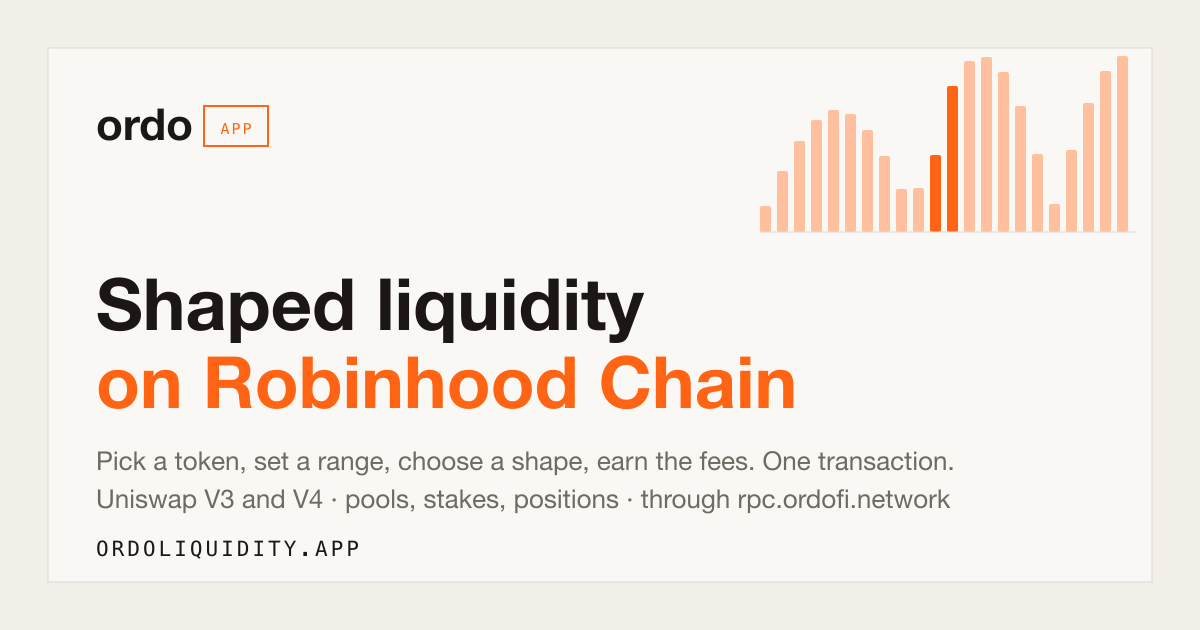
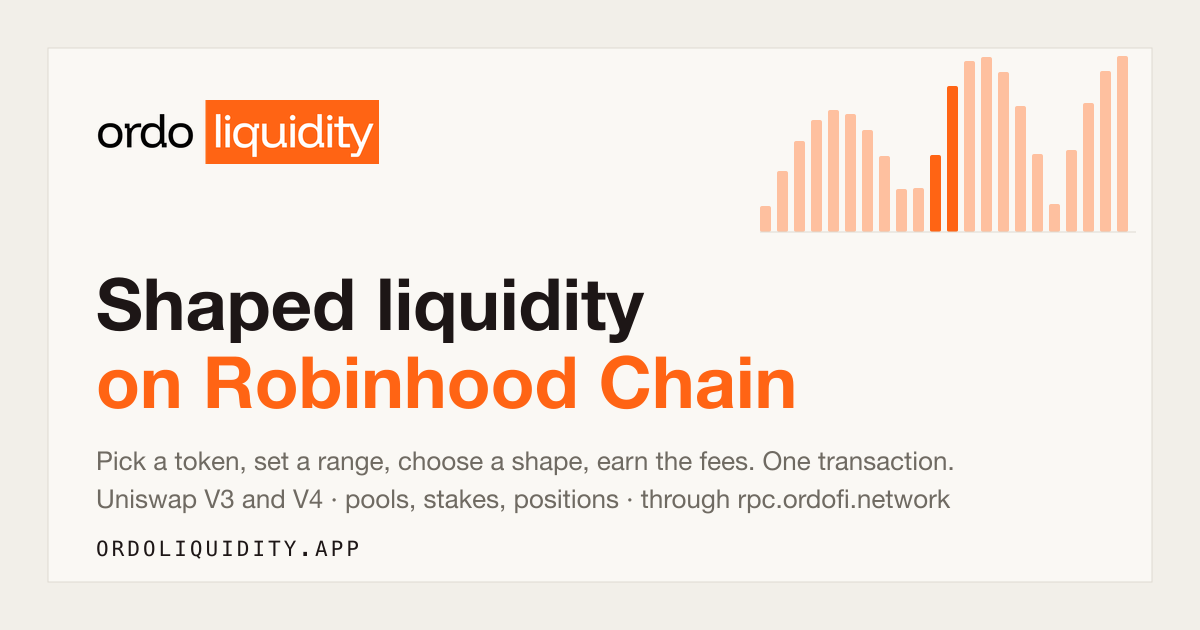
The ordo liquidity mark in the nav and footer of the pools, stakes and positions pages, and on the share card.

Changed region(s): [[0.0617, 0.1508, 0.3392, 0.2714]]

diff --git a/apps/web/public/pools.html b/apps/web/public/pools.html
@@ -231,7 +231,7 @@
 <body>
   <nav>
     <div class="wrap">
-      <a class="logo" href="/">ordo<span class="logo-app">app</span></a>
+      <a class="logo logo-liq" href="/pools" aria-label="ordo liquidity"><img src="/ordo-liquidity.png" alt="ordo liquidity" width="680" height="154" /></a>
       <div class="nav-links"><a href="/">Home</a><a href="/trade">Trade</a><a href="/pools" class="here">Pools</a><a href="/stakes">Stakes</a><a href="/positions">Positions</a><a href="/stealth">Stealth</a><a href="/desk">Desk</a><a href="/docs">Docs</a></div>
       <div class="nav-side"><a class="btn ghost" id="nav-connect" href="#" style="padding:7px 16px;font-size:13px">Connect</a></div>
     </div>
@@ -850,7 +850,7 @@
   <footer class="site-footer">
     <div class="wrap">
       <div class="footer-grid">
-        <div class="footer-brand"><div class="logo">ordo<span class="logo-app">app</span></div><p>The execution layer for Robinhood Chain.</p></div>
+        <div class="footer-brand"><div class="logo logo-liq"><img src="/ordo-liquidity.png" alt="ordo liquidity" width="680" height="154" /></div><p>The execution layer for Robinhood Chain.</p></div>
         <div class="footer-col"><h5>Product</h5><a href="/trade">Trade</a><a href="/pools">Pools</a><a href="/positions">Positions</a><a href="/stealth">Stealth</a><a href="/desk">Desk</a><a href="/explorer">Explorer</a><a href="/docs">Documentation</a></div>
         <div class="footer-col"><h5>Participate</h5><a href="/searchers">For searchers</a><a href="/apps">For apps &amp; wallets</a><a href="/operators">For node operators</a></div>
         <div class="footer-col"><h5>Resources</h5><a href="https://github.com/OrdoFi/ordofi" target="_blank" rel="noopener">GitHub</a><a href="/docs#quickstart">Quickstart</a></div>

diff --git a/apps/web/public/positions.html b/apps/web/public/positions.html
@@ -71,7 +71,7 @@
 <body>
   <nav>
     <div class="wrap">
-      <a class="logo" href="/">ordo<span class="logo-app">app</span></a>
+      <a class="logo logo-liq" href="/pools" aria-label="ordo liquidity"><img src="/ordo-liquidity.png" alt="ordo liquidity" width="680" height="154" /></a>
       <div class="nav-links"><a href="/">Home</a><a href="/trade">Trade</a><a href="/pools">Pools</a><a href="/stakes">Stakes</a><a href="/positions" class="here">Positions</a><a href="/stealth">Stealth</a><a href="/desk">Desk</a><a href="/docs">Docs</a></div>
       <div class="nav-side"><a class="btn ghost" id="nav-connect" href="#" style="padding:7px 16px;font-size:13px">Connect</a></div>
     </div>
@@ -193,7 +193,7 @@
   <footer class="site-footer">
     <div class="wrap">
       <div class="footer-grid">
-        <div class="footer-brand"><div class="logo">ordo<span class="logo-app">app</span></div><p>The execution layer for Robinhood Chain.</p></div>
+        <div class="footer-brand"><div class="logo logo-liq"><img src="/ordo-liquidity.png" alt="ordo liquidity" width="680" height="154" /></div><p>The execution layer for Robinhood Chain.</p></div>
         <div class="footer-col"><h5>Product</h5><a href="/trade">Trade</a><a href="/pools">Pools</a><a href="/positions">Positions</a><a href="/stealth">Stealth</a><a href="/desk">Desk</a><a href="/explorer">Explorer</a><a href="/docs">Documentation</a></div>
         <div class="footer-col"><h5>Participate</h5><a href="/searchers">For searchers</a><a href="/apps">For apps &amp; wallets</a><a href="/operators">For node operators</a></div>
         <div class="footer-col"><h5>Resources</h5><a href="https://github.com/OrdoFi/ordofi" target="_blank" rel="noopener">GitHub</a><a href="/docs#quickstart">Quickstart</a></div>

diff --git a/apps/web/public/stakes.html b/apps/web/public/stakes.html
@@ -123,7 +123,7 @@
 <body>
   <nav>
     <div class="wrap">
-      <a class="logo" href="/">ordo<span class="logo-app">app</span></a>
+      <a class="logo logo-liq" href="/pools" aria-label="ordo liquidity"><img src="/ordo-liquidity.png" alt="ordo liquidity" width="680" height="154" /></a>
       <div class="nav-links"><a href="/">Home</a><a href="/trade">Trade</a><a href="/pools">Pools</a><a href="/stakes" class="here">Stakes</a><a href="/positions">Positions</a><a href="/stealth">Stealth</a><a href="/desk">Desk</a><a href="/docs">Docs</a></div>
       <div class="nav-side"><a class="btn ghost" id="nav-connect" href="#" style="padding:7px 16px;font-size:13px">Connect</a></div>
     </div>
@@ -443,7 +443,7 @@
   <footer class="site-footer">
     <div class="wrap">
       <div class="footer-grid">
-        <div class="footer-brand"><div class="logo">ordo<span class="logo-app">app</span></div><p>The execution layer for Robinhood Chain.</p></div>
+        <div class="footer-brand"><div class="logo logo-liq"><img src="/ordo-liquidity.png" alt="ordo liquidity" width="680" height="154" /></div><p>The execution layer for Robinhood Chain.</p></div>
         <div class="footer-col"><h5>Product</h5><a href="/trade">Trade</a><a href="/pools">Pools</a><a href="/stakes">Stakes</a><a href="/positions">Positions</a><a href="/stealth">Stealth</a><a href="/desk">Desk</a><a href="/docs">Documentation</a></div>
         <div class="footer-col"><h5>Participate</h5><a href="/searchers">For searchers</a><a href="/apps">For apps &amp; wallets</a><a href="/operators">For node operators</a></div>
         <div class="footer-col"><h5>Resources</h5><a href="https://github.com/OrdoFi/ordofi" target="_blank" rel="noopener">GitHub</a><a href="/docs#quickstart">Quickstart</a></div>

diff --git a/apps/web/public/styles.css b/apps/web/public/styles.css
@@ -68,6 +68,10 @@ nav .wrap { display: flex; align-items: center; justify-content: space-between; 
   color: var(--text); display: flex; align-items: baseline; gap: 7px; text-transform: lowercase;
 }
 .logo .mark { display: none; }
+/* The liquidity product's own mark: "ordo" black, "liquidity" on the accent block. Height sets the size; the PNG is 680×154. */
+.logo-liq img { display: block; height: 28px; width: auto; }
+.footer-brand .logo-liq img { height: 26px; }
+@media (max-width: 640px) { .logo-liq img { height: 24px; } }
 .logo .logo-app {
   font-family: var(--mono); font-size: 10px; font-weight: 500; color: var(--accent);
   letter-spacing: 0.14em; text-transform: uppercase; border: 1px solid var(--accent);
